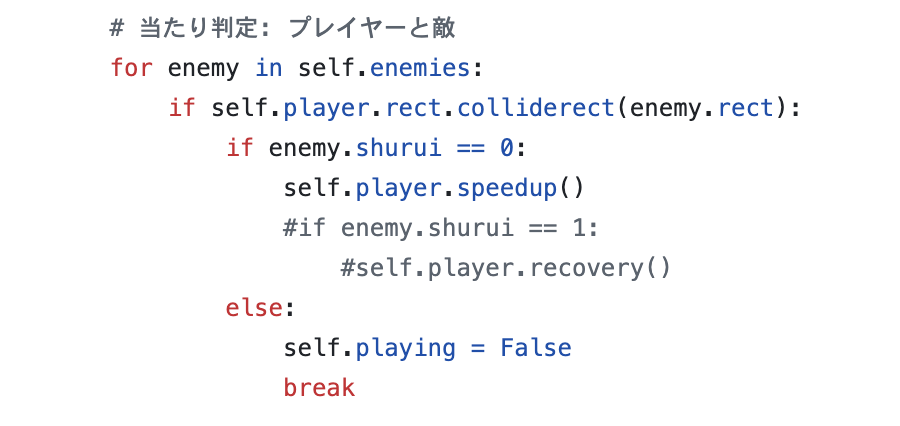
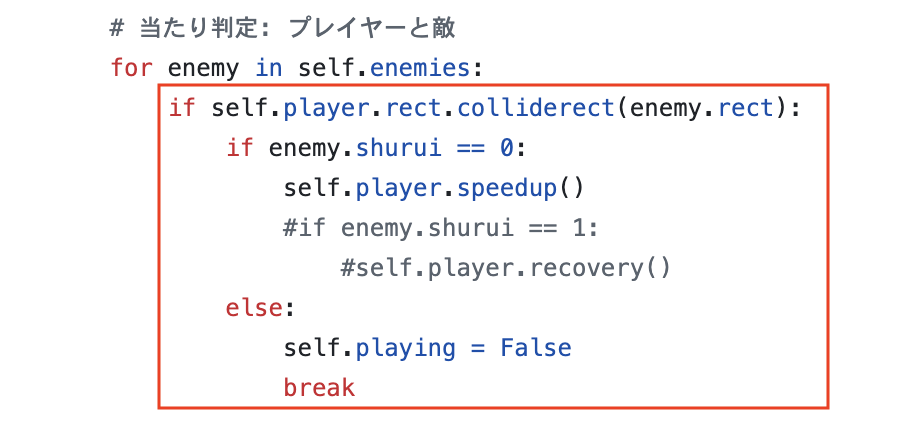
説明追加

Changed region(s): [[0.1556, 0.1831, 0.9333, 0.9765]]

diff --git a/about.md b/about.md
@@ -14,11 +14,23 @@
 
 このプログラムでは、オリジナル版から以下の点が変更されています。
 
+[オリジナル版はこちら](https://github.com/kwaka1208/pygame_sample/tree/class)
+
 1. キャラクターの追加、イメージの変更
 2. プレイヤーが本のキャラクターに当たると移動速度が上がる
 
 ここでは上記2の変更について説明します。
 
+キャラクターの種類情報である"shurui"を追加し、shuruiが0の時に速さを変えるspeedup関数を呼び出します
+
 ![](about_images/01.png)
+
+プレイヤーを移動するためのキー操作が行われた時、self.speed_x 分だけ移動するように変更します。
+
+このようにすることでself.speed_xを変化させてプレイヤーの移動速度を変えられます。
+
 ![](about_images/02.png)
+
+最後にプレイヤークラスを拡張して、速さを変える関数speedupを追加します。ここでself.speed_xを変えることで、速さを変えられます。
+
 ![](about_images/03.png)
